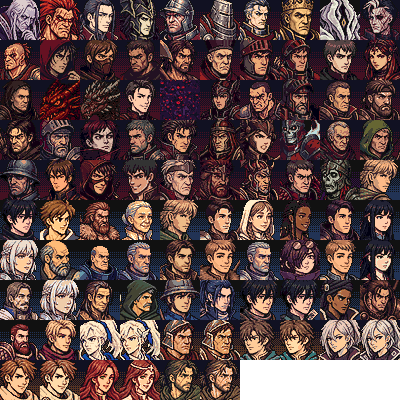
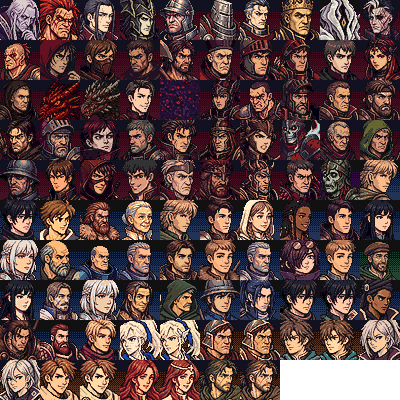
Phase 3 art: caravan Merchant portrait (generic_merchant), wired to the caravan unit
The Merchant is generated through tools/art/portrait-variants/gen-legacy-extra.mjs
(prompt and refs recorded in legacy-extra.json), rendered by the PC-98 pass on the
verdigris plate, loaded by BootScene and resolved by portraitCandidates.

Claude-Session: https://claude.ai/code/session_01KHcpDjT28dMAjN1D3JiiVV

Changed region(s): [[0.0, 0.6, 1.0, 1.0]]

diff --git a/tests/Pc98Portraits.test.js b/tests/Pc98Portraits.test.js
@@ -12,6 +12,7 @@ import {
   hue,
   hueDiff,
 } from '../tools/art/pc98/lib/color.mjs';
+import { createCaravanUnit } from '../src/engine/CaravanSystem.js';
 import { choosePalette, families } from '../tools/art/pc98/lib/palette.mjs';
 import { assignDithered, canMix, quantizeMix, MATERIAL } from '../tools/art/pc98/lib/dither.mjs';
 import { renderFigure, bake, INK } from '../tools/art/pc98/lib/pipeline.mjs';
@@ -391,6 +392,23 @@ describe('PC-98 portrait runtime', () => {
     expect(portraitFaction({ faction: 'player', isLord: true }, 'lord_sera')).toBe('ember');
     expect(portraitFaction({ faction: 'player' }, 'boss_warchief')).toBe('steel');
     expect(portraitFaction(null, 'boss_the_entity')).toBe('unlight');
+  });
+
+  it('the caravan Merchant (built outside the unit factories) shows its own portrait', () => {
+    const merchant = createCaravanUnit('act2', { col: 3, row: 4 });
+    expect(portraitCandidates(merchant, gameData)).toContain('generic_merchant');
+    expect(portraitIdForUnit(merchant, gameData)).toBe('generic_merchant');
+    expect(PC98_MANIFEST.portraits.generic_merchant.variant).toBeUndefined();
+    // an NPC ally: verdigris plate, and the legacy canvas key has a texture file to load
+    expect(portraitFaction(merchant, 'generic_merchant')).toBe('verdigris');
+    expect(PC98_MANIFEST.portraits.generic_merchant.faction).toBe('verdigris');
+    expect(legacyPortraitUrl('generic_merchant', 'pc98')).toBe(
+      'assets/portraits/pc98/baked/generic_merchant.png',
+    );
+    expect(existsSync('assets/portraits/pc98/baked/generic_merchant.png')).toBe(true);
+    // the same unit as it is saved and loaded keeps resolving to it
+    const reloaded = JSON.parse(JSON.stringify(merchant));
+    expect(portraitIdForUnit(reloaded, gameData)).toBe('generic_merchant');
   });
 
   it('canvas draws the atlas frame when loaded, else the texture', () => {

diff --git a/src/scenes/BootScene.js b/src/scenes/BootScene.js
@@ -331,6 +331,8 @@ export class BootScene extends Phaser.Scene {
       'generic_battle_monk',
       'generic_trickster',
       'generic_hunter',
+      // The caravan Merchant (CaravanSystem builds it outside the class factories)
+      'generic_merchant',
       // Enemy-faction portraits (38)
       'enemy_archer',
       'enemy_assassin',
